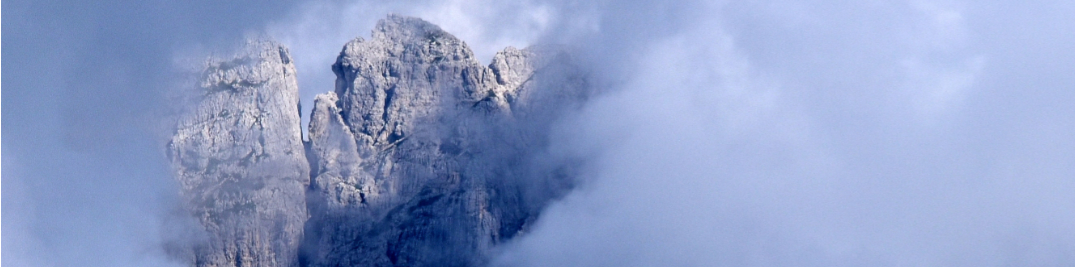
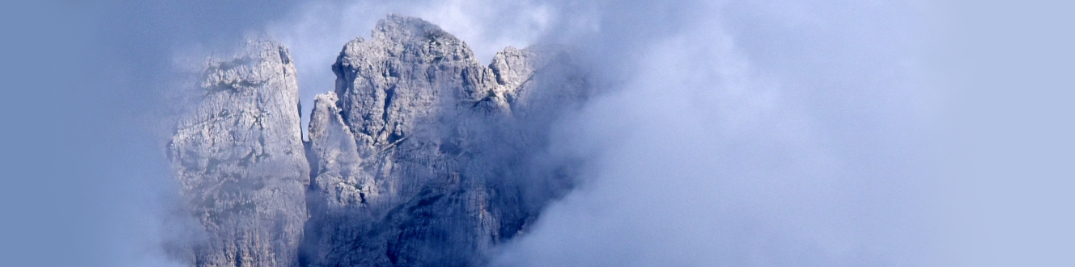
minor, tweaks

Changed region(s): [[0.0, 0.5393, 0.0921, 1.0], [0.9209, 0.9588, 1.0, 1.0]]

diff --git a/client/public/bundle.js b/client/public/bundle.js
@@ -46970,13 +46970,13 @@ return jQuery;
 /* 7 */
 /***/ (function(module, exports) {
 
-module.exports = "<div class=\"details-module\"\r\n     ng-if=\"name==='advancedUIComponents'\"\r\n     id=\"details-advancedUIComponents\">\r\n\r\n    <div class=\"details-module__images-section\">\r\n\r\n        <img src=\"images/advanced_ui_components_1.png\"\r\n             class=\"details-module__image details-module__image--for-small-devices\">\r\n\r\n        <img src=\"images/advanced_ui_components_2.png\"\r\n             class=\"details-module__image details-module__image--for-small-devices\">\r\n\r\n         <table class=\"details-module__images-section-for-large-devices\">\r\n             <tr>\r\n                 <td>\r\n                     <img src=\"images/advanced_ui_components_1.png\"\r\n                          class=\"details-module__image\">\r\n                 </td>\r\n                 <td>\r\n                     <img src=\"images/advanced_ui_components_2.png\"\r\n                          class=\"details-module__image\">\r\n                 </td>\r\n             </tr>\r\n         </table>\r\n\r\n    </div>\r\n\r\n    <h4 class=\"details-module__header\">\r\n        Advanced UI Components\r\n    </h4>\r\n\r\n    <div class=\"details-module__content-section\">\r\n\r\n        <div class=\"details-module__subheaders\">\r\n\r\n            <div class=\"details__row\">\r\n                <h3 class=\"details__row-label\">Project:</h3>\r\n                <p class=\"details__row-value\">\r\n                    <a href=\"https://app.ballparq.io\" target=\"_blank\">\r\n                        Ballparq App\r\n                    </a>\r\n                </p>\r\n                <h3 class=\"details__row-label\">Role:</h3>\r\n                <p class=\"details__row-value\">UI Developer</p>\r\n            </div>\r\n            <div class=\"details__row u-margin-bottom-small\">\r\n                <h3 class=\"details__row-label\">Tech:</h3>\r\n                <p class=\"details__row-value\">AngularJS, jQuery UI, HTML/CSS</p>\r\n            </div>\r\n\r\n        </div>\r\n\r\n        <div class=\"details-module__content u-margin-bottom-small\">\r\n\r\n            <ul class=\"details__list\">\r\n                <li class=\"details__list-item\">\r\n                    Developed UI knob component for financial modeling app, where\r\n                    changes to knob or slider drive financial model's view updates.\r\n                </li>\r\n                <li class=\"details__list-item\">\r\n                    Reused knob component directive template to great effect,\r\n                    throughout app. Also developed attribute directives for text\r\n                    formatting of data (e.g.-price, number percentage).\r\n                </li>\r\n            </ul>\r\n\r\n        </div>\r\n\r\n        <button class=\"details-module__back-btn btn-transparent\"\r\n                ui-sref=\"app\">\r\n            <h3>BACK</h3>\r\n        </button>\r\n\r\n    </div>\r\n\r\n</div>\r\n\r\n<div class=\"details-module\"\r\n     ng-if=\"name==='debateburgApp'\"\r\n     id=\"details-debateburgApp\">\r\n\r\n     <div class=\"details-module__images-section\">\r\n\r\n         <video-module video-name=\"debateburg_app\"\r\n                       class=\"video-module--for-small-devices\">\r\n         </video-module>\r\n\r\n     </div>\r\n\r\n     <h4 class=\"details-module__header\">\r\n         Debateburg App\r\n     </h4>\r\n\r\n     <div class=\"details-module__content-section\">\r\n\r\n         <div class=\"details-module__subheaders\">\r\n\r\n             <div class=\"details__row\">\r\n                 <h3 class=\"details__row-label\">Project:</h3>\r\n                 <p class=\"details__row-value\">Debateburg App</p>\r\n                 <h3 class=\"details__row-label\">Role:</h3>\r\n                 <p class=\"details__row-value\">Full-stack Web Developer</p>\r\n             </div>\r\n             <div class=\"details__row u-margin-bottom-small\">\r\n                 <h3 class=\"details__row-label\">Tech:</h3>\r\n                 <p class=\"details__row-value\">React, Redux, socket.io, MongoDB, HTML/CSS</p>\r\n             </div>\r\n\r\n         </div>\r\n\r\n         <div class=\"details-module__content u-margin-bottom-small\">\r\n\r\n             <ul class=\"details__list\">\r\n                 <li class=\"details__list-item\">\r\n                     Users can A) propose and accept/reject debate resolutions,\r\n                     B) debate against a competitor!, and C) check out past debates.\r\n                 </li>\r\n                 <li class=\"details__list-item\">\r\n                     Utilized Redux reducer composition to create debate state engine,\r\n                     which allowed for the following usage spec: \"During a debate,\r\n                     a user can only enter messages if their debate side (pro or con)\r\n                     is active\".\r\n                 </li>\r\n             </ul>\r\n\r\n         </div>\r\n\r\n         <button class=\"details-module__back-btn btn-transparent\"\r\n                 ui-sref=\"app\">\r\n             <h3>BACK</h3>\r\n         </button>\r\n\r\n     </div>\r\n\r\n</div>\r\n"
+module.exports = "<div class=\"details-module\"\r\n     ng-if=\"name==='advancedUIComponents'\"\r\n     id=\"details-advancedUIComponents\">\r\n\r\n    <div class=\"details-module__images-section\">\r\n\r\n        <img src=\"images/advanced_ui_components_1.png\"\r\n             class=\"details-module__image details-module__image--for-small-devices\">\r\n\r\n        <img src=\"images/advanced_ui_components_2.png\"\r\n             class=\"details-module__image details-module__image--for-small-devices\">\r\n\r\n         <table class=\"details-module__images-section-for-large-devices\">\r\n             <tr>\r\n                 <td>\r\n                     <img src=\"images/advanced_ui_components_1.png\"\r\n                          class=\"details-module__image\">\r\n                 </td>\r\n                 <td>\r\n                     <img src=\"images/advanced_ui_components_2.png\"\r\n                          class=\"details-module__image\">\r\n                 </td>\r\n             </tr>\r\n         </table>\r\n\r\n    </div>\r\n\r\n    <h4 class=\"details-module__header\">\r\n        Advanced UI Components\r\n    </h4>\r\n\r\n    <div class=\"details-module__content-section\">\r\n\r\n        <div class=\"details-module__subheaders\">\r\n\r\n            <div class=\"details__row\">\r\n                <h3 class=\"details__row-label\">Project:</h3>\r\n                <p class=\"details__row-value\">\r\n                    <a href=\"https://app.ballparq.io\" target=\"_blank\">\r\n                        Ballparq App\r\n                    </a>\r\n                </p>\r\n                <h3 class=\"details__row-label\">Role:</h3>\r\n                <p class=\"details__row-value\">UI Developer</p>\r\n            </div>\r\n            <div class=\"details__row u-margin-bottom-small\">\r\n                <h3 class=\"details__row-label\">Tech:</h3>\r\n                <p class=\"details__row-value\">AngularJS, jQuery UI, HTML/CSS</p>\r\n            </div>\r\n\r\n        </div>\r\n\r\n        <div class=\"details-module__content u-margin-bottom-small\">\r\n\r\n            <ul class=\"details__list\">\r\n                <li class=\"details__list-item\">\r\n                    Developed UI knob component for financial modeling app, where\r\n                    changes to knob or slider drive financial model's view updates.\r\n                </li>\r\n                <li class=\"details__list-item\">\r\n                    Reused knob component directive template to great effect,\r\n                    throughout app. Also developed attribute directives for text\r\n                    formatting of data (e.g.-price, number percentage).\r\n                </li>\r\n            </ul>\r\n\r\n        </div>\r\n\r\n        <button class=\"details-module__back-btn btn-transparent\"\r\n                ui-sref=\"app\">\r\n            <h3>BACK</h3>\r\n        </button>\r\n\r\n    </div>\r\n\r\n</div>\r\n\r\n<div class=\"details-module\"\r\n     ng-if=\"name==='debateburgApp'\"\r\n     id=\"details-debateburgApp\">\r\n\r\n     <div class=\"details-module__images-section\">\r\n\r\n         <video-module video-name=\"debateburg_app\"\r\n                       class=\"video-module--for-small-devices\">\r\n         </video-module>\r\n\r\n     </div>\r\n\r\n     <h4 class=\"details-module__header\">\r\n         Debateburg App\r\n     </h4>\r\n\r\n     <div class=\"details-module__content-section\">\r\n\r\n         <div class=\"details-module__subheaders\">\r\n\r\n             <div class=\"details__row\">\r\n                 <h3 class=\"details__row-label\">Project:</h3>\r\n                 <p class=\"details__row-value\">\r\n                     Debateburg App&nbsp;\r\n                     (<a href=\"https://github.com/RedKrovvy2013/Debateburg\"\r\n                         target=\"_blank\">\r\n                         GitHub\r\n                     </a>)\r\n                 </p>\r\n                 <h3 class=\"details__row-label\">Role:</h3>\r\n                 <p class=\"details__row-value\">Full-stack Web Developer</p>\r\n             </div>\r\n             <div class=\"details__row u-margin-bottom-small\">\r\n                 <h3 class=\"details__row-label\">Tech:</h3>\r\n                 <p class=\"details__row-value\">React, Redux, socket.io, MongoDB, HTML/CSS</p>\r\n             </div>\r\n\r\n         </div>\r\n\r\n         <div class=\"details-module__content u-margin-bottom-small\">\r\n\r\n             <ul class=\"details__list\">\r\n                 <li class=\"details__list-item\">\r\n                     Users can A) propose and accept/reject debate resolutions,\r\n                     B) debate against a competitor!, and C) check out past debates.\r\n                 </li>\r\n                 <li class=\"details__list-item\">\r\n                     Utilized Redux reducer composition to create debate state engine,\r\n                     which allowed for the following usage spec: \"During a debate,\r\n                     a user can only enter messages if their debate side (pro or con)\r\n                     is active\".\r\n                 </li>\r\n             </ul>\r\n\r\n         </div>\r\n\r\n         <button class=\"details-module__back-btn btn-transparent\"\r\n                 ui-sref=\"app\">\r\n             <h3>BACK</h3>\r\n         </button>\r\n\r\n     </div>\r\n\r\n</div>\r\n"
 
 /***/ }),
 /* 8 */
 /***/ (function(module, exports) {
 
-module.exports = "<!-- container: #header-container -->\r\n\r\n<div id=\"resume-and-exp-categories-container\">\r\n\r\n    <form method=\"get\" action=\"resume_michael_cirone.pdf\">\r\n       <button id=\"resume\" class=\"btn-transparent\" type=\"submit\"></button>\r\n    </form>\r\n\r\n    <!-- <div id=\"exp-categories\">\r\n        <div class=\"checkbox-and-label-container\">\r\n            <div class=\"checkbox-kit\">\r\n                <input type=\"checkbox\" class=\"checkbox-kit__checkbox\"\r\n                       id=\"professional-category-checkbox\" checked>\r\n                <div class=\"checkbox-kit__checkbox-icon\"></div>\r\n            </div>\r\n            <label for=\"professional-category-checkbox\"\r\n                   class=\"checkbox-kit__label\">\r\n               Professional Experience\r\n            </label>\r\n        </div>\r\n        <div class=\"checkbox-and-label-container\">\r\n            <div class=\"checkbox-kit\">\r\n                <input type=\"checkbox\" class=\"checkbox-kit__checkbox\"\r\n                       id=\"professional-category-checkbox\" checked>\r\n                <div class=\"checkbox-kit__checkbox-icon\"></div>\r\n            </div>\r\n            <label for=\"professional-category-checkbox\"\r\n                   class=\"checkbox-kit__label\">\r\n               Independent Projects\r\n            </label>\r\n        </div>\r\n    </div> -->\r\n\r\n</div>\r\n\r\n<div id=\"about-me-and-title-container\">\r\n\r\n    <div id=\"about-me-and-title\">\r\n\r\n        <!-- <button id=\"about-me-btn\" class=\"btn-transparent\">\r\n            <span id=\"about-me-btn__label\">About Me</span>\r\n        </button> -->\r\n\r\n        <h4 id=\"main-title-secondary\">Web Developer</h4>\r\n\r\n        <h1 id=\"main-title\">Mike Cirone</h1>\r\n\r\n    </div>\r\n\r\n</div>\r\n"
+module.exports = "<!-- container: #header-container -->\r\n\r\n<div class=\"header\">\r\n\r\n    <div class=\"header__resume-container\">\r\n\r\n        <form method=\"get\" action=\"resume_michael_cirone.pdf\">\r\n           <button class=\"header__resume btn-transparent\"\r\n                   type=\"submit\"></button>\r\n        </form>\r\n\r\n    </div>\r\n\r\n    <div class=\"header__title-container\">\r\n\r\n        <div class=\"header__title\">\r\n\r\n            <h4 class=\"header__main-title-secondary\">Web Developer</h4>\r\n\r\n            <h1 class=\"header__main-title\">Mike Cirone</h1>\r\n\r\n        </div>\r\n\r\n    </div>\r\n\r\n</div>\r\n"
 
 /***/ }),
 /* 9 */

diff --git a/client/header/_header.scss b/client/header/_header.scss
@@ -4,64 +4,46 @@
     background-size: cover;
 }
 
-#resume-and-exp-categories-container {
-    height: 10rem;
-    max-width: $grid-width;
-    margin: 0 auto;
-    display: flex;
-    justify-content: space-between;
-    padding: 0 $horizontal-edge-gutter;
-    padding-top: $horizontal-edge-gutter;
-}
+.header {
 
-$resume-width: 6rem;
-button#resume {
-    width: $resume-width;
-    height: $resume-width;
-    background: url('../images/resume.svg') no-repeat;
-    background-size: 100% 100%;
-}
-
-#exp-categories {
-
-    align-self: flex-end;
-
-    .checkbox-kit__label {
-        color: $black;
-        font-size: $h5-size;
-        font-family: 'Ropa Sans', sans-serif;
-    }
-
-}
-
-#about-me-and-title-container {
-    background-color: rgba(black, 0.5);
-}
-#about-me-and-title {
-
-    max-width: $grid-width;
-    margin: 0 auto;
-    box-sizing: content-box;
-    padding: 0 $horizontal-edge-gutter;
-    display: flex;
-    justify-content: space-between;
-
-    #about-me-btn {
-        padding-left: 2.5rem;
-        background: url(../images/dropdown_grey.svg) left center no-repeat;
-        background-size: 2rem;
-        &__label {
-            font-weight: bold;
-            @include chrome-gradient;
+    &__resume-container {
+        height: 10rem;
+        @include respond(phone) {
+            height: 8rem;
         }
+        max-width: $grid-width;
+        margin: 0 auto;
+        display: flex;
+        justify-content: space-between;
+        padding: 0 $horizontal-edge-gutter;
+        padding-top: $horizontal-edge-gutter;
     }
 
-    #main-title {
-        // text-transform: uppercase;
+    $resume-width: 6rem;
+    &__resume {
+        width: $resume-width;
+        height: $resume-width;
+        background: url('../images/resume.svg') no-repeat;
+        background-size: 100% 100%;
     }
 
-    #main-title-secondary {
+    &__title-container {
+        background-color: rgba(black, 0.5);
+    }
+    &__title {
+
+        max-width: $grid-width;
+        margin: 0 auto;
+        box-sizing: content-box;
+        padding: 0 $horizontal-edge-gutter;
+        display: flex;
+        justify-content: space-between;
+
+    }
+
+    &__main-title-secondary {
         @include chrome-gradient;
         align-self: center;
     }
+
 }

diff --git a/client/header/header.html b/client/header/header.html
@@ -1,49 +1,25 @@
 <!-- container: #header-container -->
 
-<div id="resume-and-exp-categories-container">
+<div class="header">
 
-    <form method="get" action="resume_michael_cirone.pdf">
-       <button id="resume" class="btn-transparent" type="submit"></button>
-    </form>
+    <div class="header__resume-container">
 
-    <!-- <div id="exp-categories">
-        <div class="checkbox-and-label-container">
-            <div class="checkbox-kit">
-                <input type="checkbox" class="checkbox-kit__checkbox"
-                       id="professional-category-checkbox" checked>
-                <div class="checkbox-kit__checkbox-icon"></div>
-            </div>
-            <label for="professional-category-checkbox"
-                   class="checkbox-kit__label">
-               Professional Experience
-            </label>
+        <form method="get" action="resume_michael_cirone.pdf">
+           <button class="header__resume btn-transparent"
+                   type="submit"></button>
+        </form>
+
+    </div>
+
+    <div class="header__title-container">
+
+        <div class="header__title">
+
+            <h4 class="header__main-title-secondary">Web Developer</h4>
+
+            <h1 class="header__main-title">Mike Cirone</h1>
+
         </div>
-        <div class="checkbox-and-label-container">
-            <div class="checkbox-kit">
-                <input type="checkbox" class="checkbox-kit__checkbox"
-                       id="professional-category-checkbox" checked>
-                <div class="checkbox-kit__checkbox-icon"></div>
-            </div>
-            <label for="professional-category-checkbox"
-                   class="checkbox-kit__label">
-               Independent Projects
-            </label>
-        </div>
-    </div> -->
-
-</div>
-
-<div id="about-me-and-title-container">
-
-    <div id="about-me-and-title">
-
-        <!-- <button id="about-me-btn" class="btn-transparent">
-            <span id="about-me-btn__label">About Me</span>
-        </button> -->
-
-        <h4 id="main-title-secondary">Web Developer</h4>
-
-        <h1 id="main-title">Mike Cirone</h1>
 
     </div>
 

diff --git a/client/public/styles/style.css b/client/public/styles/style.css
@@ -34,9 +34,6 @@ html {
   @media (max-width: 37.5em) {
     html {
       font-size: 50%; } }
-  @media (min-width: 112.5em) {
-    html {
-      font-size: 75%; } }
 
 body {
   box-sizing: border-box;
@@ -216,7 +213,7 @@ html, body, #header-and-content-container {
   background-image: url(../images/mtn_in_the_clouds.jpg);
   background-size: cover; }
 
-#resume-and-exp-categories-container {
+.header__resume-container {
   height: 10rem;
   max-width: 150rem;
   margin: 0 auto;
@@ -224,44 +221,32 @@ html, body, #header-and-content-container {
   justify-content: space-between;
   padding: 0 1rem;
   padding-top: 1rem; }
+  @media (max-width: 37.5em) {
+    .header__resume-container {
+      height: 8rem; } }
 
-button#resume {
+.header__resume {
   width: 6rem;
   height: 6rem;
   background: url("../images/resume.svg") no-repeat;
   background-size: 100% 100%; }
 
-#exp-categories {
-  align-self: flex-end; }
-  #exp-categories .checkbox-kit__label {
-    color: #000;
-    font-size: 1.92rem;
-    font-family: 'Ropa Sans', sans-serif; }
-
-#about-me-and-title-container {
+.header__title-container {
   background-color: rgba(0, 0, 0, 0.5); }
 
-#about-me-and-title {
+.header__title {
   max-width: 150rem;
   margin: 0 auto;
   box-sizing: content-box;
   padding: 0 1rem;
   display: flex;
   justify-content: space-between; }
-  #about-me-and-title #about-me-btn {
-    padding-left: 2.5rem;
-    background: url(../images/dropdown_grey.svg) left center no-repeat;
-    background-size: 2rem; }
-    #about-me-and-title #about-me-btn__label {
-      font-weight: bold;
-      background-image: linear-gradient(to bottom, #fafafa, #949494);
-      -webkit-background-clip: text;
-      color: transparent; }
-  #about-me-and-title #main-title-secondary {
-    background-image: linear-gradient(to bottom, #fafafa, #949494);
-    -webkit-background-clip: text;
-    color: transparent;
-    align-self: center; }
+
+.header__main-title-secondary {
+  background-image: linear-gradient(to bottom, #fafafa, #949494);
+  -webkit-background-clip: text;
+  color: transparent;
+  align-self: center; }
 
 .details__row {
   display: flex;

diff --git a/client/public/index.html b/client/public/index.html
@@ -157,6 +157,15 @@
                                     <h3 class="details__row-label">Duration:</h3>
                                     <p class="details__row-value">Jan 2016 - June 2016</p>
                                 </div>
+                                <div class="details__row">
+                                    <h3 class="details__row-label">Project Link:</h3>
+                                    <p class="details__row-value">
+                                        <a href="https://github.com/RedKrovvy2013/WorkLogger"
+                                           target="_blank">
+                                            GitHub
+                                        </a>
+                                    </p>
+                                </div>
                                 <ul class="details__list">
                                     <li class="details__list-item">
                                         User can 1) log a task’s description and associated project and

diff --git a/client/detailsModule/detailsModule.html b/client/detailsModule/detailsModule.html
@@ -97,7 +97,13 @@
 
              <div class="details__row">
                  <h3 class="details__row-label">Project:</h3>
-                 <p class="details__row-value">Debateburg App</p>
+                 <p class="details__row-value">
+                     Debateburg App&nbsp;
+                     (<a href="https://github.com/RedKrovvy2013/Debateburg"
+                         target="_blank">
+                         GitHub
+                     </a>)
+                 </p>
                  <h3 class="details__row-label">Role:</h3>
                  <p class="details__row-value">Full-stack Web Developer</p>
              </div>

diff --git a/client/css/_base.scss b/client/css/_base.scss
@@ -28,10 +28,6 @@ html {
         font-size: 50%;
     }
     // above: just including for dev, so breakpoint shows up in dev tools
-
-    @include respond(big-desktop) {
-        font-size: 75%;     // 1 rem = 12px, 12/16 = 75%
-    }
 }
 
 body {

diff --git a/client/css/_vars.scss b/client/css/_vars.scss
@@ -9,6 +9,8 @@ $blue: #11b4e8;
 $blue-gradient-light: #c6edf9;
 $blue-gradient-dark: $blue;
 $red: #D30000;
+$header-blue-dark: #738EBB;
+$header-blue-light: #B3C3E5;
 
 $p-size: 1.6rem;
 $h1-size: $p-size * 2.35;
